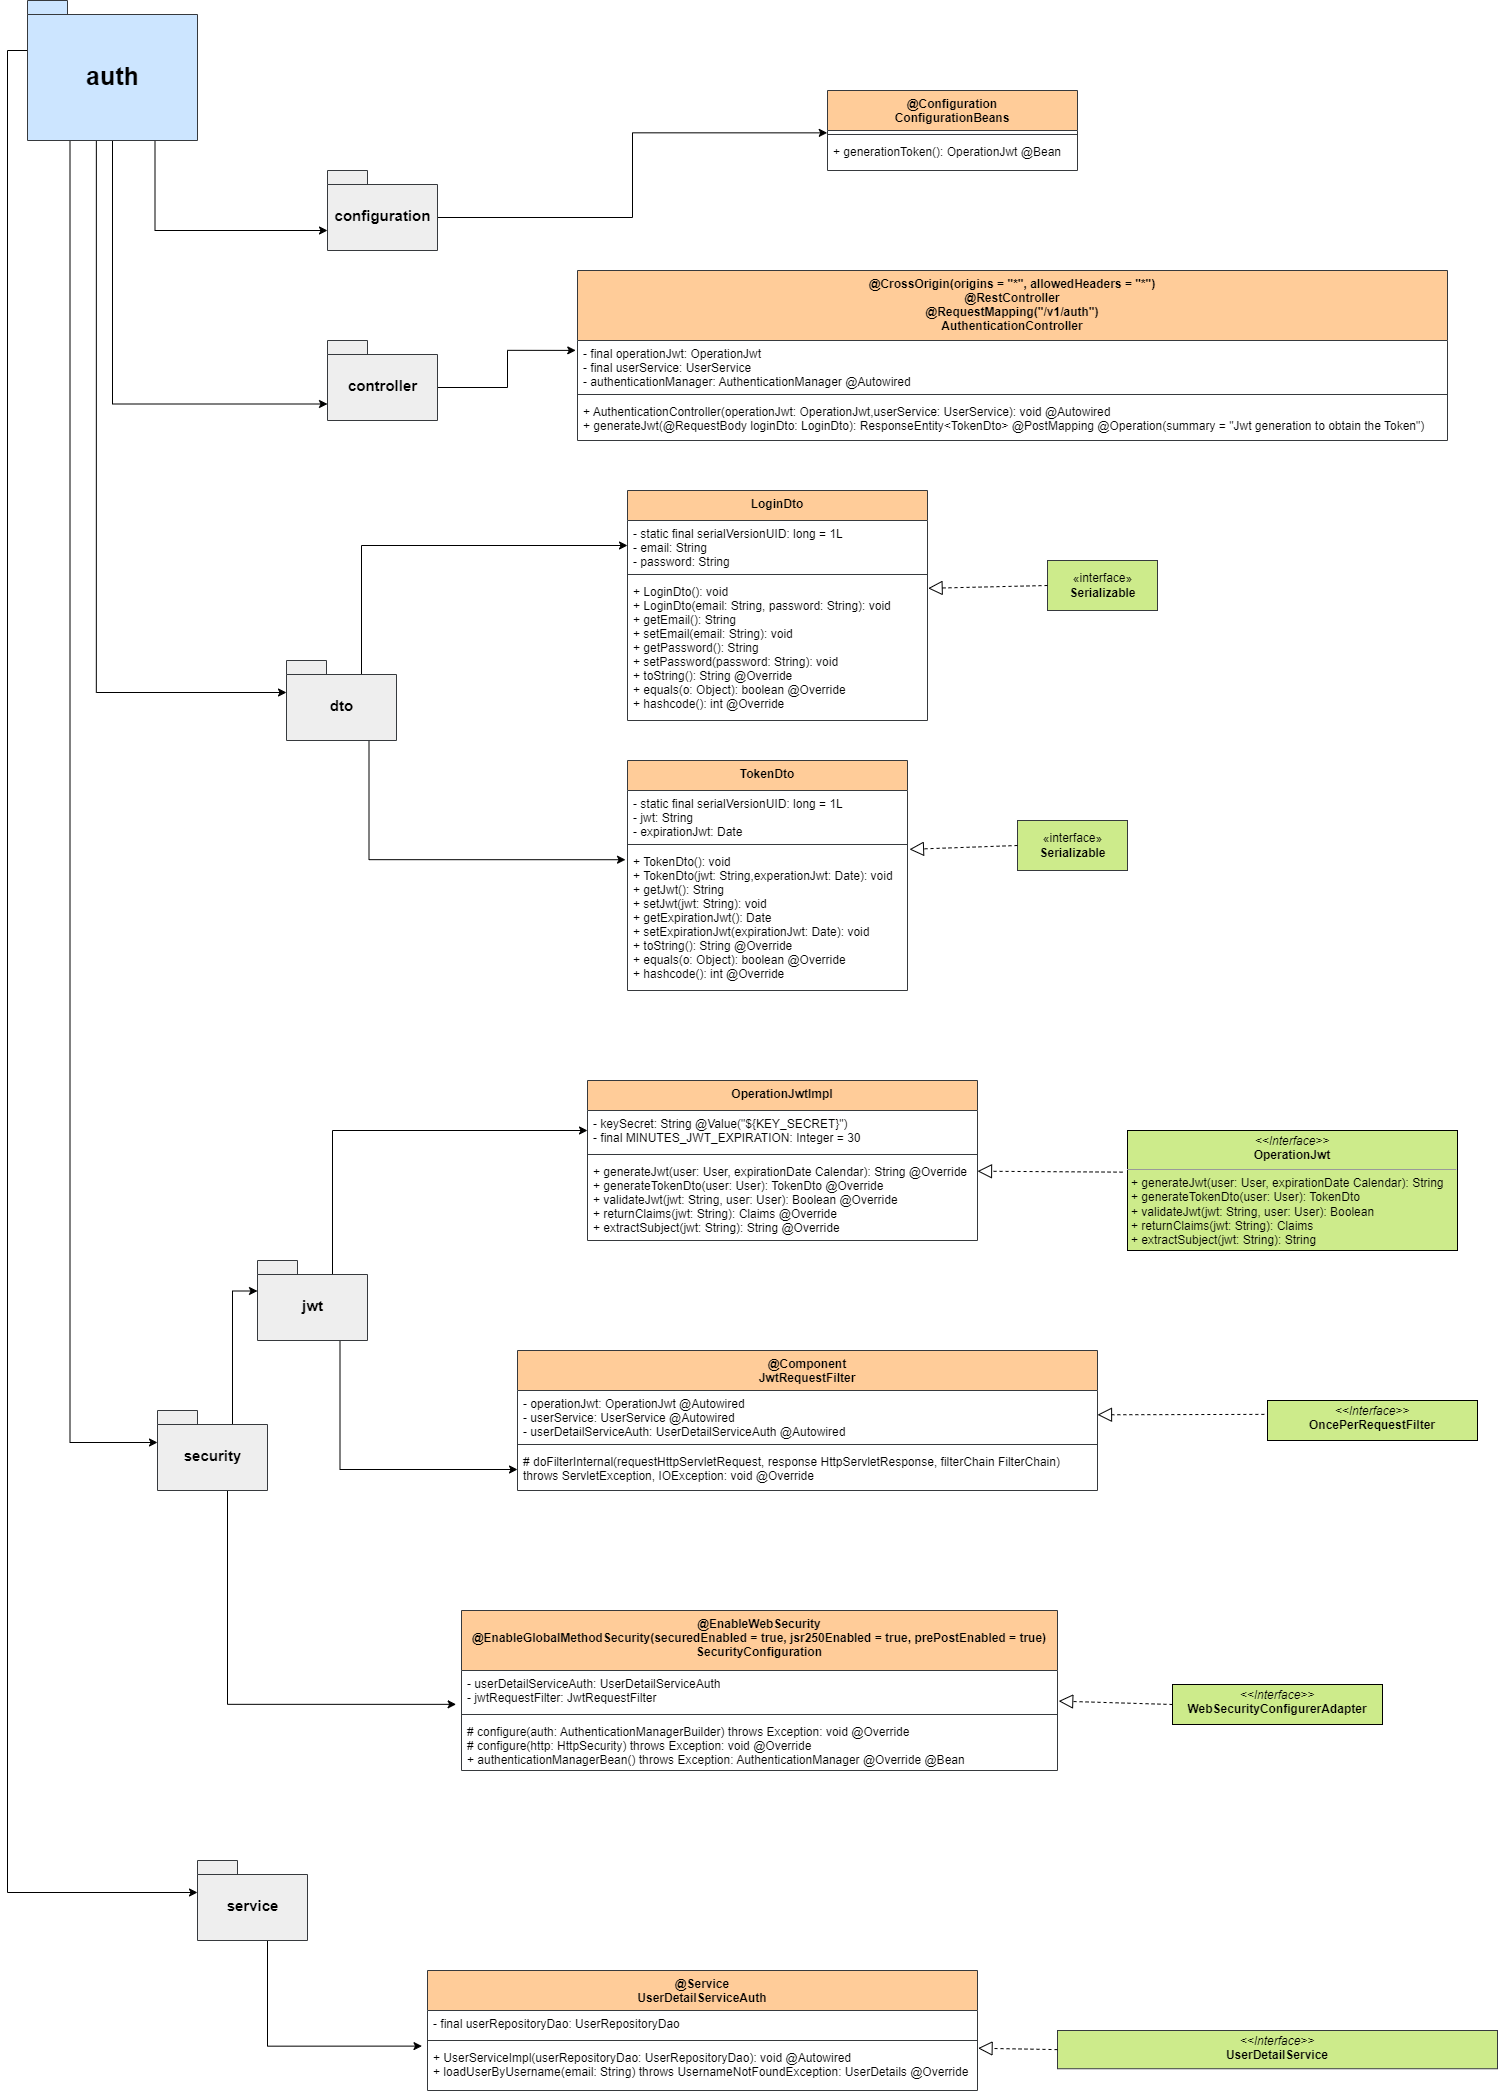
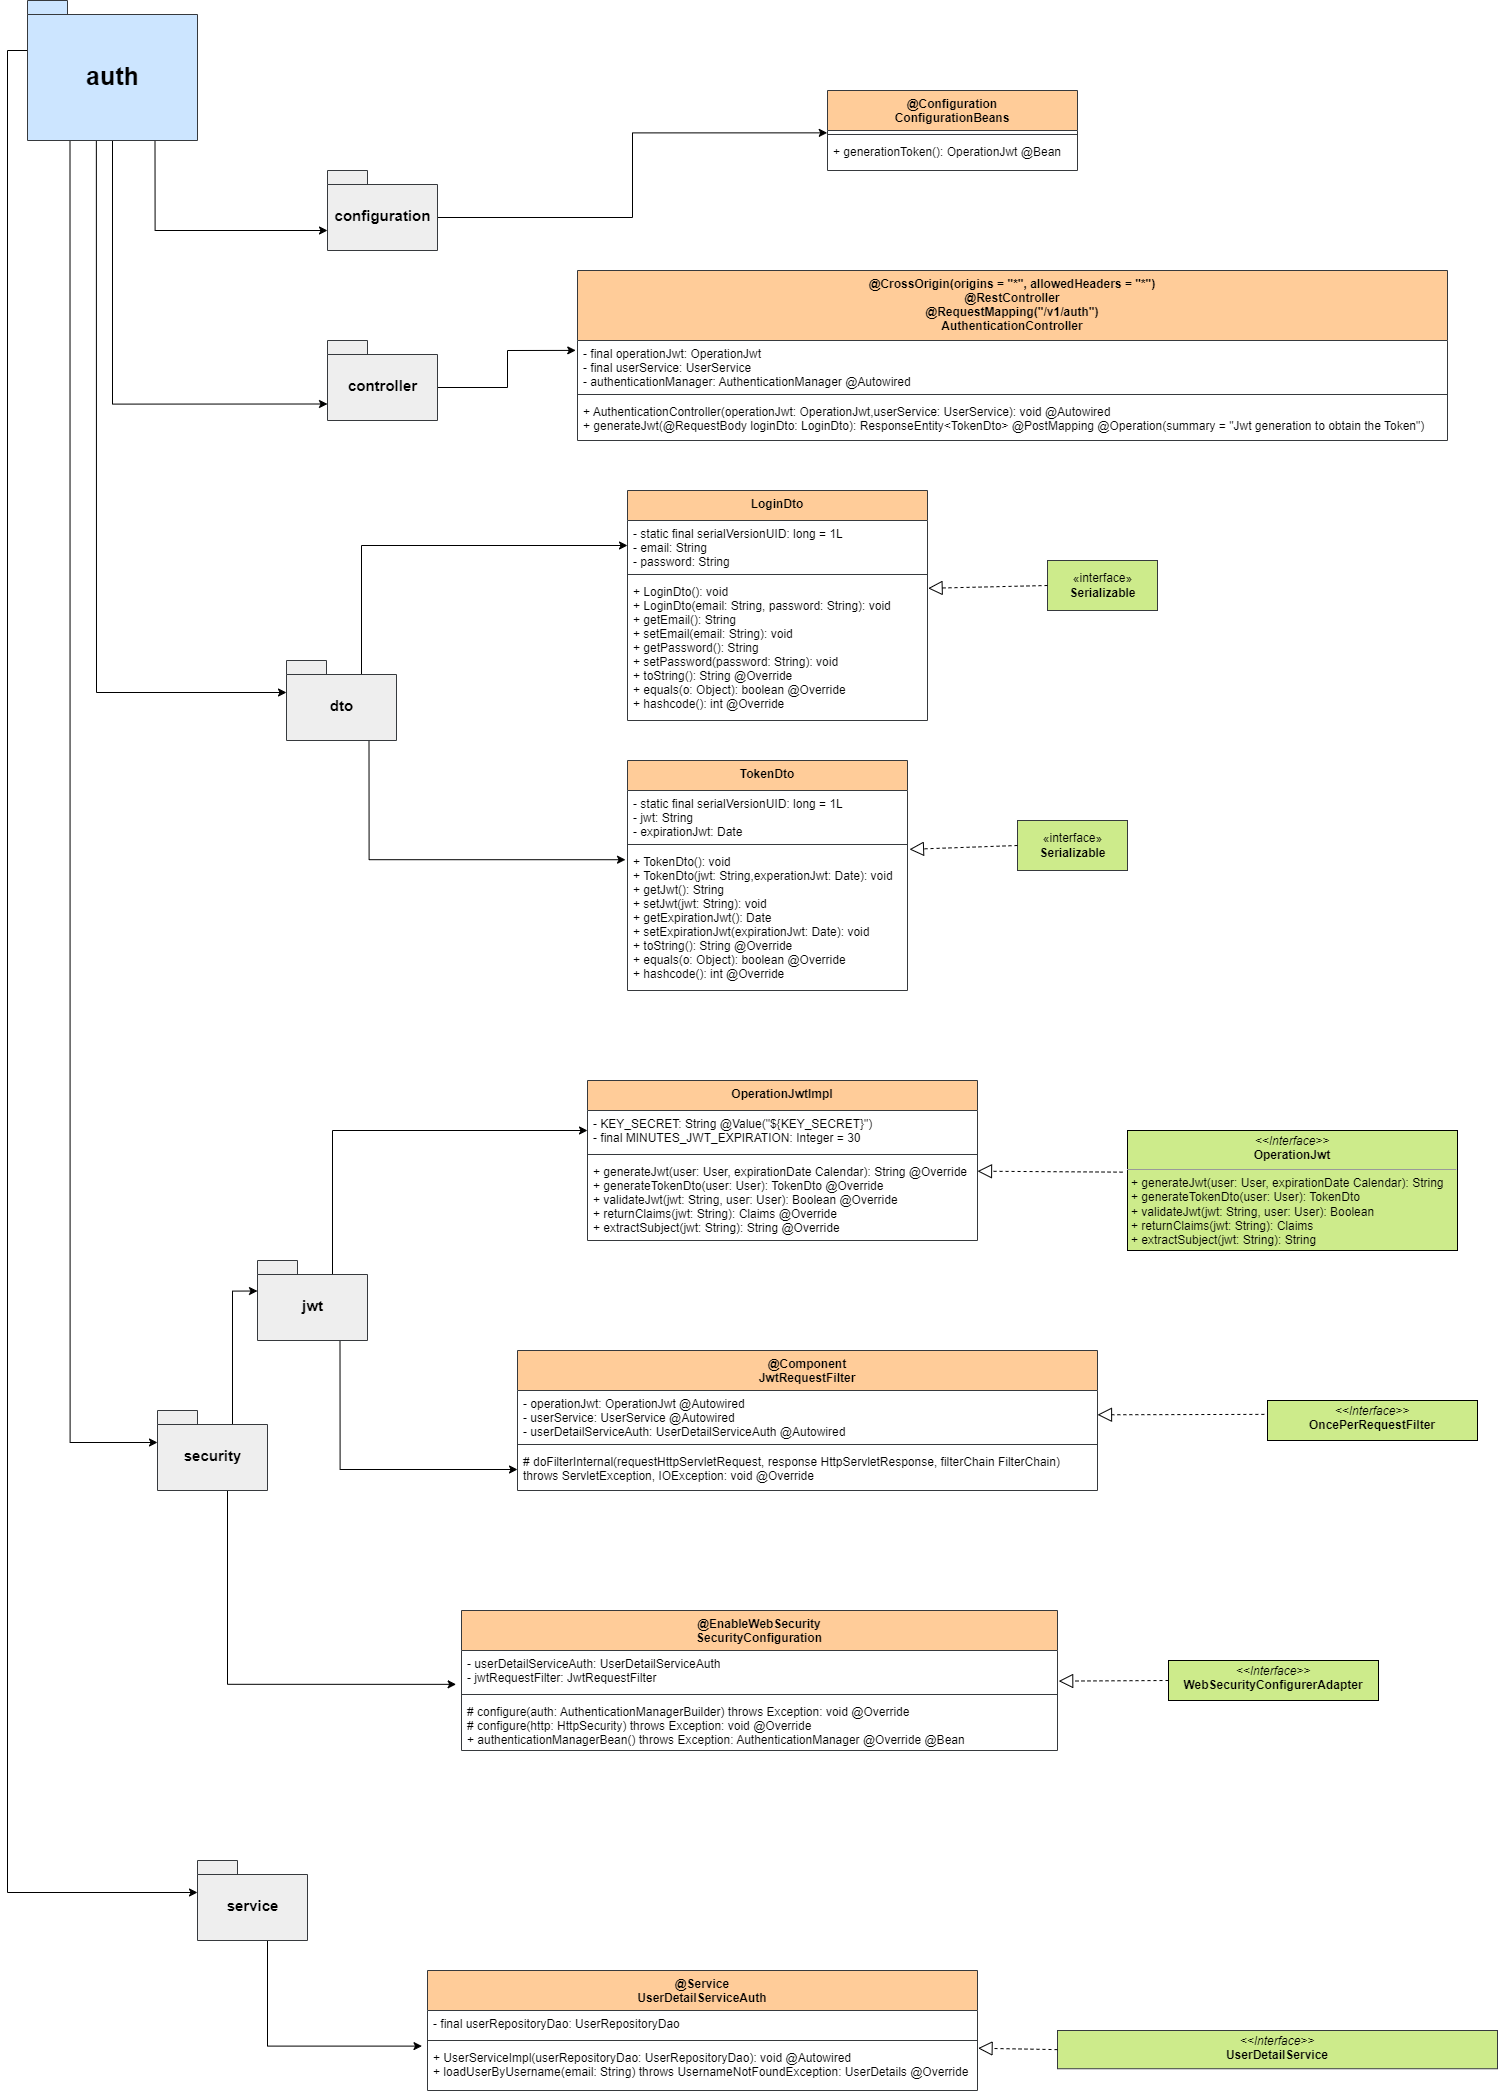
Project structure modifications.

Changed region(s): [[0.3071, 0.776, 0.7063, 0.8381], [0.7677, 0.776, 0.9212, 0.8381], [0.4606, 0.5277, 0.522, 0.5587]]

diff --git a/src/main/java/com/davidorellana/bookingsystemrestapi/auth/security/SecurityConfiguration.java b/src/main/java/com/davidorellana/bookingsystemrestapi/auth/security/SecurityConfiguration.java
@@ -7,7 +7,6 @@ import org.springframework.context.annotation.Bean;
 import org.springframework.http.HttpMethod;
 import org.springframework.security.authentication.AuthenticationManager;
 import org.springframework.security.config.annotation.authentication.builders.AuthenticationManagerBuilder;
-import org.springframework.security.config.annotation.method.configuration.EnableGlobalMethodSecurity;
 import org.springframework.security.config.annotation.web.builders.HttpSecurity;
 import org.springframework.security.config.annotation.web.configuration.EnableWebSecurity;
 import org.springframework.security.config.annotation.web.configuration.WebSecurityConfigurerAdapter;
@@ -15,7 +14,6 @@ import org.springframework.security.config.http.SessionCreationPolicy;
 import org.springframework.security.web.authentication.UsernamePasswordAuthenticationFilter;
 
 @EnableWebSecurity
-@EnableGlobalMethodSecurity(securedEnabled = true, jsr250Enabled = true, prePostEnabled = true)
 public class SecurityConfiguration extends WebSecurityConfigurerAdapter {
 
     @Autowired

diff --git a/src/main/java/com/davidorellana/bookingsystemrestapi/swagger/SwaggerConfiguration.java b/src/main/java/com/davidorellana/bookingsystemrestapi/swagger/SwaggerConfiguration.java
@@ -49,7 +49,7 @@ public class SwaggerConfiguration {
     private ApiInfo apiInfo() {
         return new ApiInfo(
                 "Documentation - Integrator Project: Booking System Rest Api",
-                "Booking System Rest Api Project: Implementation of User, Booking and Authentication microservices, with implementation to a NoSql MongoDB database, JWT and Security database, Unit Test.",
+                "Booking System Rest Api Project: Implementation of User, Booking and Authentication microservices, Cloud data persistence with MongoDB, Jwt y Spring Security, Unit Tes and Mockito y more.",
                 "v1.0.0",
                 "",
                 new Contact("Luis David Orellana", "https://www.linkedin.com/in/luisdavidorellana/", ""),

diff --git a/src/main/java/com/davidorellana/bookingsystemrestapi/user/repository/mongorepository/UserMongoRepository.java b/src/main/java/com/davidorellana/bookingsystemrestapi/user/repository/mongorepository/UserMongoRepository.java
@@ -9,12 +9,12 @@ import java.util.Optional;
 
 public interface UserMongoRepository extends MongoRepository<User, String> {
 
-   // @Query(value = "{'name' : ?0, 'lastName' : ?1}", exists = true)
+    @Query(value = "{'name' : ?0, 'lastName' : ?1}", exists = true)
     List<User> findUserByNameAndLastName(String name, String lastName);
 
-   // @Query(value = "{'email' : ?0}")
+    @Query(value = "{'email' : ?0}")
     Optional<User> findUserByEmail(String email);
 
-   // @Query(value = "{'identityCard' : ?0}")
+    @Query(value = "{'identityCard' : ?0}")
     Optional<User> findUserByIdentityCard(String identityCard);
 }

diff --git a/src/main/java/com/davidorellana/bookingsystemrestapi/booking/repository/mongorepository/BookingMongoRepository.java b/src/main/java/com/davidorellana/bookingsystemrestapi/booking/repository/mongorepository/BookingMongoRepository.java
@@ -8,9 +8,9 @@ import java.util.List;
 
 public interface BookingMongoRepository extends MongoRepository<Booking, String> {
 
-    //@Query(value = "{'bookingType' : ?0}", exists = true)
+    @Query(value = "{'bookingType' : ?0}", exists = true)
     List<Booking> findBookingsByBookingType(String bookingType);
 
-    //@Query(value = "{'paymentMethods' : ?0}", exists = true)
+    @Query(value = "{'paymentMethods' : ?0}", exists = true)
     List<Booking> findBookingsByPaymentMethods(String paymentMethods);
 }
